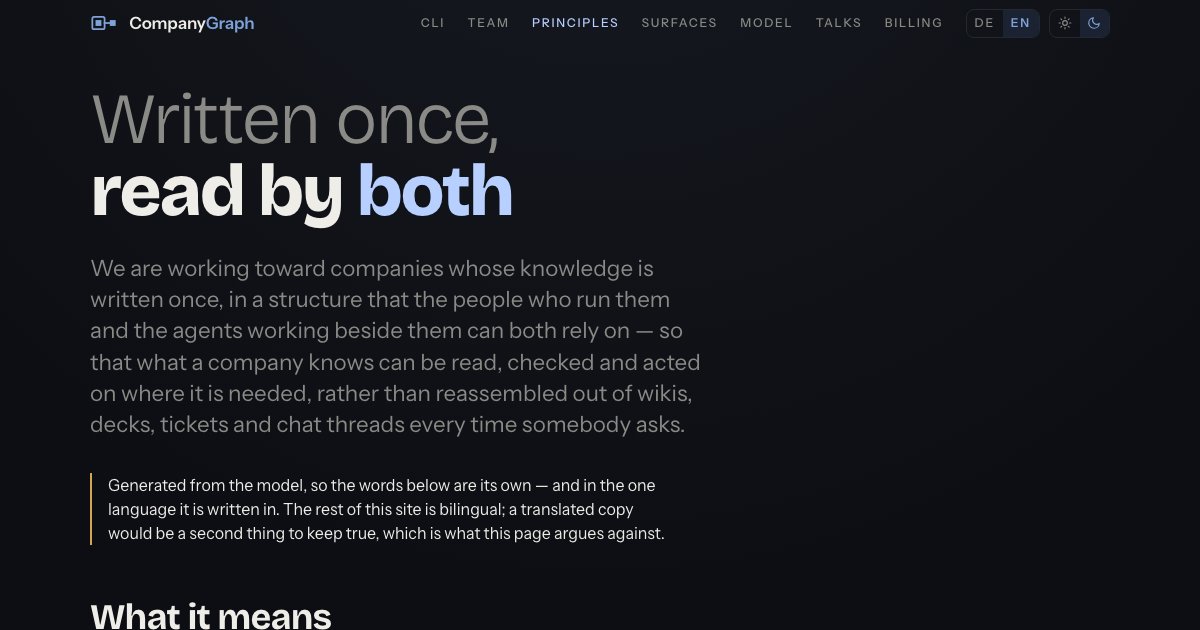
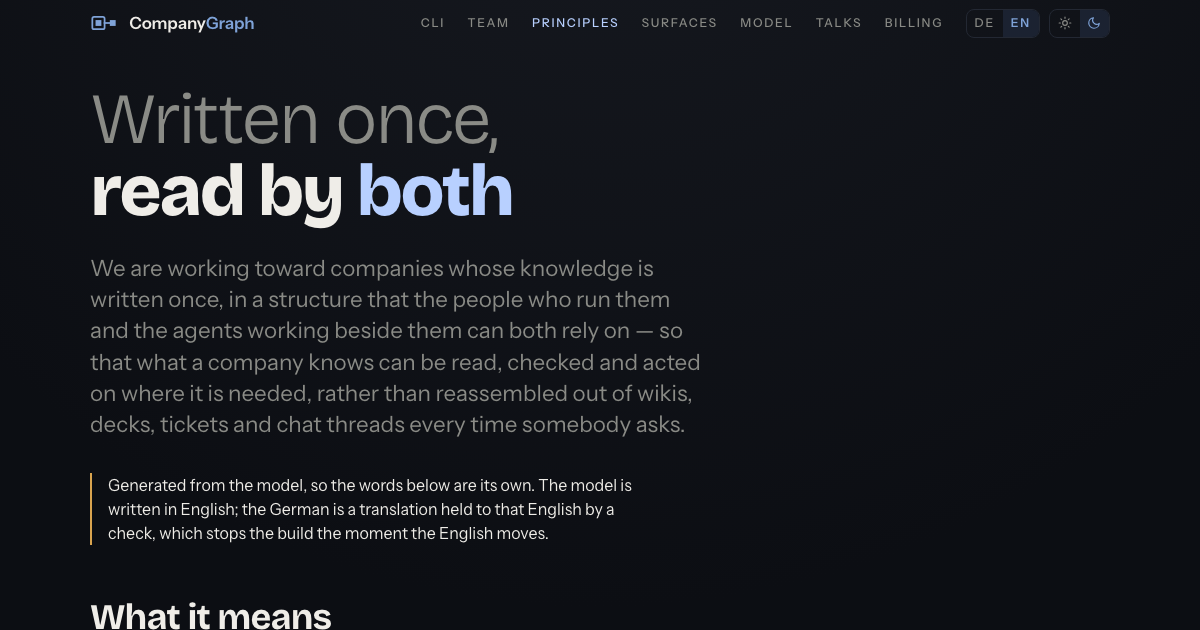
The principles page reads in German, held to the model's English
Every other page on this site keeps the model's words in the one language the model is
written in, but the model's own vision and values are the site's most public claims, and a
reader in Zürich or Bern was reading them only in English. build/pages.mjs now loads
build/principles.de.json and passes it to writePrinciples, so /principles/ shows the German
translation the owner already reviewed, held to the exact English by a check that refuses the
build the moment the two disagree.

AGENTS.md's note on one-language pages moves /principles/ out of that list on both sites: it is
the one page generated from a pinned model that carries a translation, because a value's German
name is what a visitor reads once the language switch is pressed, and the note on the page now
says so.

Verified: npm run pages, pages:check, design:check, test:build, test:og, test:d3, og, sitemap,
conventions-check, conventions-sync check and npx design german stale origin/main HEAD all pass;
BASE=http://localhost:8012 npm run verify passes on all 11 pages.

Changed region(s): [[0.0925, 0.754, 0.555, 0.8746]]

diff --git a/principles/index.html b/principles/index.html
@@ -232,36 +232,36 @@
   <div class="shell">
     <!-- principles:start -->
     <div class="title">
-      <h1><span class="r70">Written once,</span><span class="rcl">read by <em>both</em></span></h1>
-      <p class="tagline">We are working toward companies whose knowledge is written once, in a structure that the people who run them and the agents working beside them can both rely on — so that what a company knows can be read, checked and acted on where it is needed, rather than reassembled out of wikis, decks, tickets and chat threads every time somebody asks.</p>
-      <p class="note" data-de="Aus dem Modell erzeugt: Die Worte unten sind seine eigenen – und in der einen Sprache, in der es geschrieben ist. Der Rest dieser Website ist zweisprachig; eine übersetzte Kopie wäre eine zweite Fassung, die ebenfalls stimmen müsste – und genau dagegen argumentiert diese Seite.">Generated from the model, so the words below are its own — and in the one language it is written in. The rest of this site is bilingual; a translated copy would be a second thing to keep true, which is what this page argues against.</p>
+      <h1 data-de="<span class='r70'>Einmal geschrieben,</span><span class='rcl'>von beiden <em>gelesen</em></span>"><span class="r70">Written once,</span><span class="rcl">read by <em>both</em></span></h1>
+      <p class="tagline" data-de="Wir arbeiten auf Firmen hin, deren Wissen einmal geschrieben wird, in einer Struktur, auf die sich beide verlassen können: die Menschen, die sie führen, und die Agenten, die neben ihnen arbeiten. So lässt sich, was eine Firma weiss, dort lesen, prüfen und in Handeln umsetzen, wo es gebraucht wird, statt dass es jedes Mal, wenn jemand fragt, aus Wikis, Präsentationen, Tickets und Chatverläufen neu zusammengesetzt werden muss.">We are working toward companies whose knowledge is written once, in a structure that the people who run them and the agents working beside them can both rely on — so that what a company knows can be read, checked and acted on where it is needed, rather than reassembled out of wikis, decks, tickets and chat threads every time somebody asks.</p>
+      <p class="note" data-de="Aus dem Modell erzeugt: Die Worte unten sind seine eigenen, übersetzt aus dem Englischen, in dem es geschrieben ist. Eine Prüfung bindet die Übersetzung an den englischen Text: Ändert sich das Englische, stoppt die Prüfung den Build.">Generated from the model, so the words below are its own. The model is written in English; the German is a translation held to that English by a check, which stops the build the moment the English moves.</p>
     </div>
 
     <section>
-      <h2>What it means</h2>
-      <p class="lede">It holds when a company can answer a question about itself from the structure rather than from whoever remembers, when an agent answering the same question is held to the same evidence as a person, and when a claim that rests on nothing is visible as such instead of passing unchallenged. A reader can tell whether it holds by asking the same question twice, of a person and of an agent, and comparing what each had to stand on.</p>
-      <p class="lede">It does not ask a company to move what it keeps elsewhere. A fact the wiki, the tracker or the directory has authority over stays mastered there and is projected into the model by a sync that names it, so a company whose knowledge is legible this way still runs on the tools it ran on before. It is also not reached by describing more: a model nobody acts on has not made a company legible, whatever it contains.</p>
+      <h2 data-de="Was das bedeutet">What it means</h2>
+      <p class="lede" data-de="Erreicht ist das, wenn eine Firma eine Frage über sich selbst aus der Struktur beantworten kann statt aus dem Gedächtnis von irgendjemandem; wenn ein Agent, der dieselbe Frage beantwortet, an dieselben Belege gebunden ist wie ein Mensch; und wenn eine Behauptung, die sich auf nichts stützt, als solche sichtbar ist, statt unwidersprochen durchzugehen. Wer liest, kann prüfen, ob es erreicht ist: indem er dieselbe Frage zweimal stellt, einem Menschen und einem Agenten, und vergleicht, worauf sich jeder stützen konnte.">It holds when a company can answer a question about itself from the structure rather than from whoever remembers, when an agent answering the same question is held to the same evidence as a person, and when a claim that rests on nothing is visible as such instead of passing unchallenged. A reader can tell whether it holds by asking the same question twice, of a person and of an agent, and comparing what each had to stand on.</p>
+      <p class="lede" data-de="Das verlangt von keiner Firma, zu verlagern, was sie anderswo führt. Ein Fakt, über den das Wiki, das Ticketsystem oder das Verzeichnis die Hoheit hat, wird weiterhin dort geführt und durch eine Synchronisierung, die diese Quelle nennt, ins Modell projiziert. Eine Firma, deren Wissen auf diese Weise lesbar ist, arbeitet also weiter mit den Werkzeugen, mit denen sie schon vorher gearbeitet hat. Erreicht wird es auch nicht dadurch, dass man mehr beschreibt: Ein Modell, nach dem niemand handelt, hat eine Firma nicht lesbar gemacht, was immer es enthält.">It does not ask a company to move what it keeps elsewhere. A fact the wiki, the tracker or the directory has authority over stays mastered there and is projected into the model by a sync that names it, so a company whose knowledge is legible this way still runs on the tools it ran on before. It is also not reached by describing more: a model nobody acts on has not made a company legible, whatever it contains.</p>
     </section>
 
     <section>
       <h2 data-de="Werte">Values</h2>
       <article class="value" id="adoption-is-not-taxed">
-        <h3>Adoption is not taxed</h3>
-        <p class="tagline">A meta-model is worth whatever gets adopted of it, so anything that makes adopting it cost more works against the one thing it was built to do.</p>
-        <p>We publish the vocabulary, the tooling and the talks under licenses that ask nothing back, and we bill consulting by the day rather than by the model, so what costs money is time and never what a company does with the model. Where a way to charge would have fitted we wrote down why it was refused instead of leaving it open: a per-seat license charges a company for being read, which a model meant for its people and its agents at once cannot bear, and a per-entry price charges it for the completeness the model exists to produce. Doing it without us is the normal case and the pages say so, because a model most people need help to adopt has not been made adoptable.</p>
-        <p>We never let the model cost more the more of a company, or the more of its agents, that reads it.</p>
+        <h3 data-de="Keine Pflichtgebühr für die Verbreitung">Adoption is not taxed</h3>
+        <p class="tagline" data-de="Ein Meta-Modell ist so viel wert wie seine Verbreitung. Alles, was seine Verbreitung verteuert, arbeitet darum gegen das Einzige, wofür es gebaut wurde.">A meta-model is worth whatever gets adopted of it, so anything that makes adopting it cost more works against the one thing it was built to do.</p>
+        <p data-de="Wir veröffentlichen das Vokabular, die Werkzeuge und die Vorträge unter Lizenzen, die keine Gegenleistung verlangen, und wir rechnen Beratung pro Tag ab statt pro Modell. Bezahlt wird also Zeit, nie das, was eine Firma mit dem Modell tut. Wo eine Art der Abrechnung gepasst hätte, haben wir aufgeschrieben, warum wir sie verworfen haben, statt die Frage offen zu lassen. Eine Lizenz pro Nutzer lässt eine Firma dafür bezahlen, dass sie gelesen wird – das verträgt kein Modell, das zugleich für ihre Menschen und ihre Agenten gedacht ist. Ein Preis pro Eintrag lässt sie genau für die Vollständigkeit bezahlen, für die es das Modell gibt. Ohne uns auszukommen, ist der Normalfall, und die Seiten sagen das auch: Ein Modell, für dessen Übernahme die meisten Hilfe brauchen, ist nicht so gemacht, dass man es übernehmen kann.">We publish the vocabulary, the tooling and the talks under licenses that ask nothing back, and we bill consulting by the day rather than by the model, so what costs money is time and never what a company does with the model. Where a way to charge would have fitted we wrote down why it was refused instead of leaving it open: a per-seat license charges a company for being read, which a model meant for its people and its agents at once cannot bear, and a per-entry price charges it for the completeness the model exists to produce. Doing it without us is the normal case and the pages say so, because a model most people need help to adopt has not been made adoptable.</p>
+        <p data-de="Wir lassen das Modell nie teurer werden, je mehr Menschen oder Agenten einer Firma es lesen.">We never let the model cost more the more of a company, or the more of its agents, that reads it.</p>
       </article>
       <article class="value" id="describe-the-pattern-never-the-company">
-        <h3>Describe the pattern, never the company</h3>
-        <p class="tagline">A meta-model that carries one company's tooling in its conventions has stopped being one, so the vocabulary states the shape and never who was found holding it.</p>
-        <p>The vocabulary names no company it was drawn from, quotes no company's internal conventions, and says nothing about the tracker, the wiki or the chat tool anyone runs on. Where an example would read better with a real company behind it we write the pattern instead, because a thin file per person is portable and the company that keeps one is not, and because a rule that only makes sense once a reader knows whose it was is a rule nobody else can adopt. Confidentiality is part of this and it is not the reason for it: a claim about the shape a company's knowledge takes has to stand without naming a company, or it was never a claim about the shape.</p>
-        <p>We never put a company's name, its tooling or its counts into the vocabulary.</p>
+        <h3 data-de="Das Muster beschreiben, nie die Firma">Describe the pattern, never the company</h3>
+        <p class="tagline" data-de="Ein Meta-Modell, dessen Konventionen die Werkzeuge einer bestimmten Firma enthalten, ist keines mehr. Darum nennt das Vokabular die Form und nie, bei wem sie gefunden wurde.">A meta-model that carries one company's tooling in its conventions has stopped being one, so the vocabulary states the shape and never who was found holding it.</p>
+        <p data-de="Das Vokabular nennt keine Firma, aus der es gewonnen wurde, zitiert keine internen Konventionen einer Firma und sagt nichts über das Ticketsystem, das Wiki oder das Chat-Werkzeug, mit dem jemand arbeitet. Wo ein Beispiel mit einer echten Firma dahinter besser zu lesen wäre, schreiben wir stattdessen das Muster: weil sich eine schlanke Datei pro Person übertragen lässt, während die Firma, die sie führt, nicht übertragbar ist, und weil eine Regel, die erst Sinn ergibt, wenn man weiss, von wem sie stammt, von niemandem sonst übernommen werden kann. Vertraulichkeit gehört dazu, ist aber nicht der Grund dafür: Eine Behauptung darüber, welche Form das Wissen einer Firma annimmt, muss bestehen, ohne eine Firma zu nennen – sonst war sie nie eine Behauptung über diese Form.">The vocabulary names no company it was drawn from, quotes no company's internal conventions, and says nothing about the tracker, the wiki or the chat tool anyone runs on. Where an example would read better with a real company behind it we write the pattern instead, because a thin file per person is portable and the company that keeps one is not, and because a rule that only makes sense once a reader knows whose it was is a rule nobody else can adopt. Confidentiality is part of this and it is not the reason for it: a claim about the shape a company's knowledge takes has to stand without naming a company, or it was never a claim about the shape.</p>
+        <p data-de="Wir nehmen nie den Namen einer Firma, ihre Werkzeuge oder ihre Zahlen ins Vokabular auf.">We never put a company's name, its tooling or its counts into the vocabulary.</p>
       </article>
       <article class="value" id="run-on-what-we-publish">
-        <h3>Run on what we publish</h3>
-        <p class="tagline">A vocabulary its authors have not had to use is a proposal, and the only evidence that a type holds a real company is a real company being held by it.</p>
-        <p>We describe ourselves in the vocabulary we publish, in the open, in a repository anyone can read — and the instances beside it describe a company of one and GuestGraph, a company whose product is not about modeling at all, the same way, so the vocabulary answers to more than one shape of company before it asks anyone else to adopt it. A type reaches core once a company has actually had to be described with it, which is why an instance is what finds a gap rather than a review of the schemas. Every surface we publish is derived from the model at a commit it names, and nothing is kept beside the model, so when a page and the model disagree it is the page that is wrong, and fixing it means fixing the model first.</p>
-        <p>We never ship a type we have not already had to use on ourselves.</p>
+        <h3 data-de="Selbst nutzen, was wir veröffentlichen">Run on what we publish</h3>
+        <p class="tagline" data-de="Ein Vokabular, das seine Autoren nie selbst anwenden mussten, ist ein Vorschlag. Und der einzige Beleg dafür, dass ein Typ eine echte Firma abbildet, ist eine echte Firma, die mit ihm abgebildet ist.">A vocabulary its authors have not had to use is a proposal, and the only evidence that a type holds a real company is a real company being held by it.</p>
+        <p data-de="Wir beschreiben uns selbst im Vokabular, das wir veröffentlichen – öffentlich, in einem Repository, das alle lesen können. Die Instanzen daneben beschreiben auf dieselbe Weise eine Ein-Personen-Firma und GuestGraph, eine Firma, deren Produkt mit Modellierung gar nichts zu tun hat. So bewährt sich das Vokabular an mehr als einer Form von Firma, bevor es irgendjemanden sonst bittet, es zu übernehmen. Ein Typ kommt in core, sobald eine Firma tatsächlich damit beschrieben werden musste; Lücken werden darum von einer Instanz gefunden, nicht bei einer Durchsicht der Schemas. Jede Surface, die wir veröffentlichen, ist aus dem Modell auf dem Stand eines Commits abgeleitet, den sie nennt, und nichts wird neben dem Modell gepflegt. Widersprechen sich eine Seite und das Modell, ist also die Seite falsch, und sie zu korrigieren heisst, zuerst das Modell zu korrigieren.">We describe ourselves in the vocabulary we publish, in the open, in a repository anyone can read — and the instances beside it describe a company of one and GuestGraph, a company whose product is not about modeling at all, the same way, so the vocabulary answers to more than one shape of company before it asks anyone else to adopt it. A type reaches core once a company has actually had to be described with it, which is why an instance is what finds a gap rather than a review of the schemas. Every surface we publish is derived from the model at a commit it names, and nothing is kept beside the model, so when a page and the model disagree it is the page that is wrong, and fixing it means fixing the model first.</p>
+        <p data-de="Wir liefern nie einen Typ aus, den wir nicht schon an uns selbst anwenden mussten.">We never ship a type we have not already had to use on ourselves.</p>
       </article>
     </section>
 

diff --git a/AGENTS.md b/AGENTS.md
@@ -249,7 +249,9 @@ Four more places carry German, and none of their names ends in `-de`. The `UI.de
 
 `<html lang>` carries the bare language, `en` in the source and `de` after a switch, and the region rides in `og:locale` alone. The rule's name says where the spelling and the grammar come from, not what the attribute says: every check that reads the language compares against `en` and `de`, and a regional tag would tell a crawler nothing `og:locale` does not already.
 
-A page generated from a pinned model — blust.ch's `/model/` and `/principles/`, companygraph.io's `/model/` and `/example/` — shows the model's own words in the one language the model is written in, and the German page shows them unchanged under `lang="de"`. Each of those pages says so in its note; the site's own words around them are bilingual like everything else. A translated copy would be a second thing to keep true, which is the argument the principles page makes against it.
+A page generated from a pinned model — blust.ch's `/model/`, companygraph.io's `/model/` and `/example/` — shows the model's own words in the one language the model is written in, and the German page shows them unchanged under `lang="de"`. Each of those pages says so in its note; the site's own words around them are bilingual like everything else. A translated copy would be a second thing to keep true, which is the argument each of those pages makes against it.
+
+`/principles/` on both sites is the one page generated from a pinned model that carries a translation anyway: the model still stays English, but each site's `build/principles.de.json` holds the German for the exact English string a value or the vision states, looked up rather than typed a second time, and the build refuses to run the moment the English moves and the German has not caught up. The page's own note says so — `NOTE_TRANSLATED_EN`/`NOTE_TRANSLATED_DE` in `@robertblust/design/render/note`, not the plain `NOTE_EN`/`NOTE_DE` that `/model/` and `/example/` still carry — and the `translates` check presses the language toggle and reads the German back.
 
 `translates` is the check that clicks. Every other DOM check reads the page as it first renders, which is English; this one presses DE, asserts the German is there and the English is gone — body text, `<title>`, meta description and, on a talks index, the PDF link — then presses EN and requires the page back exactly as it was. It is shared, in `@robertblust/design`, and every page in `PAGES` declares a spec for it, because a page without one is a page whose German half no test has seen.
 
